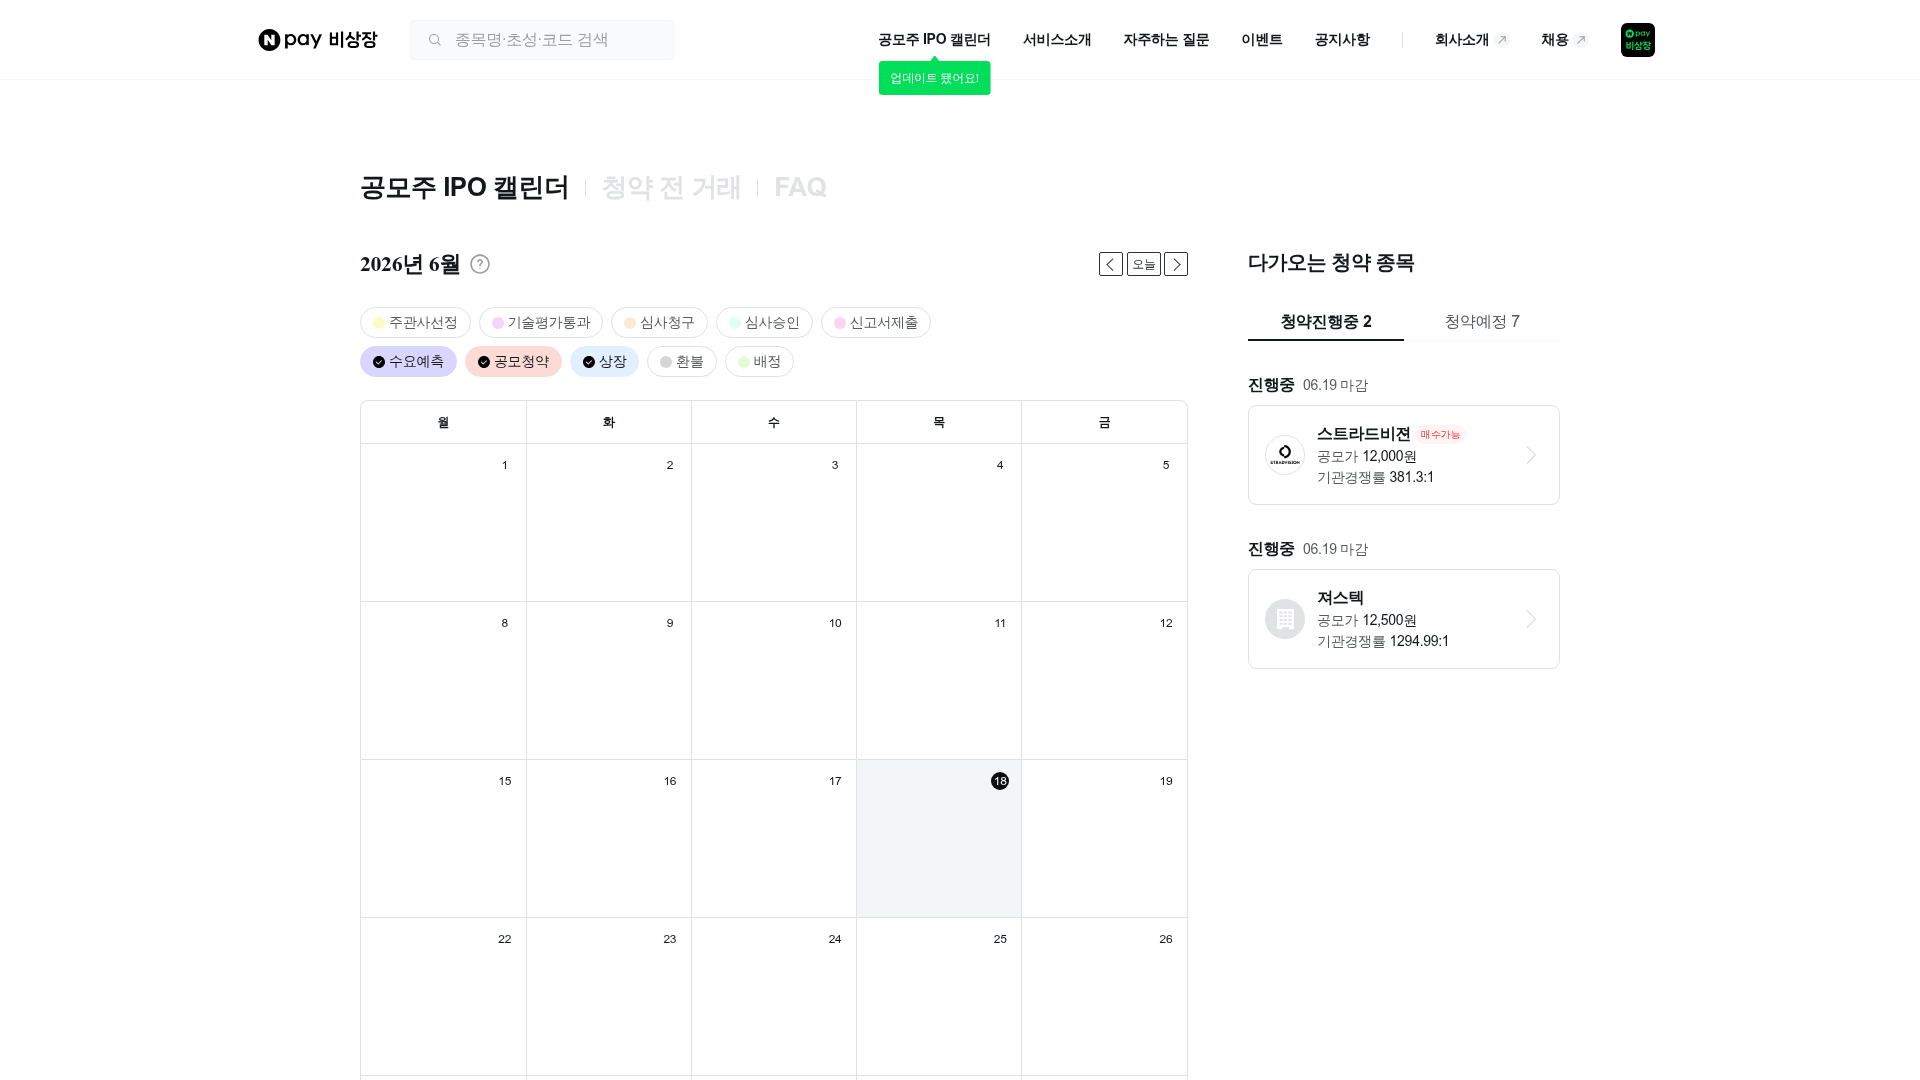
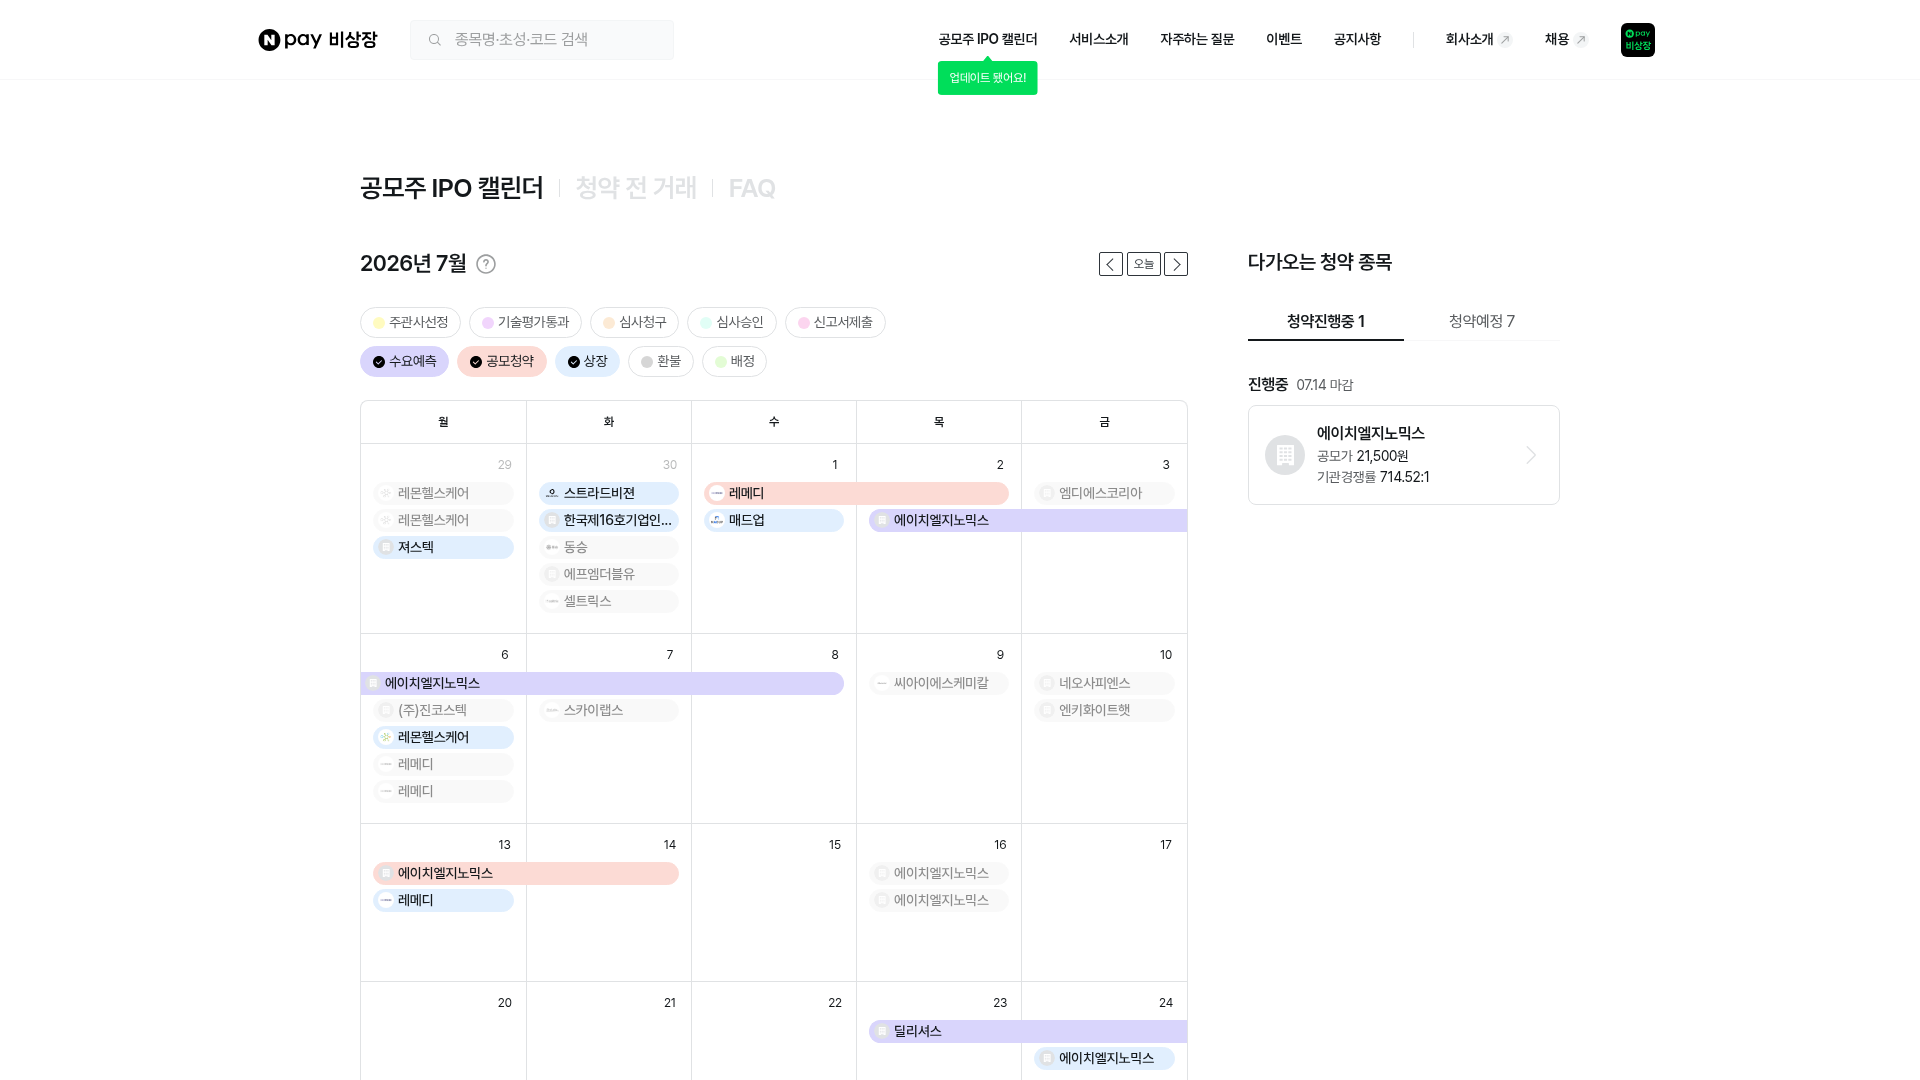
Align stock calendar events with Naver's IPO data for accuracy
Add missing IPO data and enhance event calculation for subscription and refund dates in the stock calendar.

Replit-Commit-Author: Agent
Replit-Commit-Session-Id: 81230c06-f0d5-4885-90f2-43c327f1e251
Replit-Commit-Checkpoint-Type: full_checkpoint
Replit-Commit-Event-Id: 9e053438-d2d0-4ad3-89b0-c8e92a6ca6a0
Replit-Commit-Screenshot-Url: https://storage.googleapis.com/screenshot-production-us-central1/2b618f9b-e709-4483-9e44-8e12e040cfd4/81230c06-f0d5-4885-90f2-43c327f1e251/PxUFpNK
Replit-Helium-Checkpoint-Created: true

diff --git a/client/src/pages/ipo-calendar.tsx b/client/src/pages/ipo-calendar.tsx
@@ -441,6 +441,24 @@ function buildIpo38CalEvents(ipo38: Ipo38Item[]): CalEvent[] {
         logoUrl: null, iconType: "square", isBar: true,
       });
     }
+    // 배정 (+1 영업일), 환불 (+2 영업일) — 청약종료일이 있을 때만
+    if (item.subscriptionEndDate) {
+      const allotDate = addBusinessDays(item.subscriptionEndDate, 1);
+      const refundDate = addBusinessDays(item.subscriptionEndDate, 2);
+      events.push({
+        name, start: allotDate, end: allotDate,
+        color: "#33691e", bgColor: "#F1F8E9", status: "배정",
+        priceRange: price, competition: compStr,
+        logoUrl: null, iconType: "snowflake", isBar: false,
+      });
+      events.push({
+        name, start: refundDate, end: refundDate,
+        color: "#b7601e", bgColor: "#FFF1E0", status: "환불",
+        priceRange: price, competition: compStr,
+        logoUrl: null, iconType: "dash", isBar: false,
+      });
+    }
+
     if (item.listingDate) {
       const d = parseLocalDate(item.listingDate);
       if (!isNaN(d.getTime())) {
@@ -650,7 +668,41 @@ function CalendarSection() {
 
   const naverData = ipoApiData?.naverData;
   const richIpoList: RichIpoItem[] = ipoApiData?.richIpoList || [];
-  const ipo38: Ipo38Item[] = ipoApiData?.ipo38 || [];
+  const ipo38Raw: Ipo38Item[] = ipoApiData?.ipo38 || [];
+
+  // 네이버 캘린더 기준 누락 종목 보완 데이터
+  const STATIC_IPO_SUPPLEMENTS: Ipo38Item[] = [
+    // 기존 ipo38에 있지만 listingDate 없는 종목에 상장일 추가
+    { stockName: "져스텍",      subscriptionStartDate: "2026-06-18", subscriptionEndDate: "2026-06-19", listingDate: "2026-06-29", type: "subscription" },
+    { stockName: "스트라드비젼", subscriptionStartDate: "2026-06-18", subscriptionEndDate: "2026-06-19", listingDate: "2026-06-30", type: "subscription" },
+    { stockName: "한국스팩16호", subscriptionStartDate: "2026-06-22", subscriptionEndDate: "2026-06-23", listingDate: "2026-06-30", type: "subscription" },
+    { stockName: "매드업",      subscriptionStartDate: "2026-06-23", subscriptionEndDate: "2026-06-24", listingDate: "2026-07-01", type: "subscription" },
+    { stockName: "레몬헬스케어", subscriptionStartDate: "2026-06-24", subscriptionEndDate: "2026-06-25", listingDate: "2026-07-06", type: "subscription" },
+    // ipo38에 없는 누락 상장 종목
+    { stockName: "에프엠더불유",   subscriptionStartDate: "", subscriptionEndDate: "", listingDate: "2026-06-30", type: "listing" },
+    { stockName: "엠디에스코리아", subscriptionStartDate: "", subscriptionEndDate: "", listingDate: "2026-07-02", type: "listing" },
+    { stockName: "(주)진코스텍",   subscriptionStartDate: "", subscriptionEndDate: "", listingDate: "2026-07-06", type: "listing" },
+    { stockName: "스카이펌스",    subscriptionStartDate: "", subscriptionEndDate: "", listingDate: "2026-07-07", type: "listing" },
+    { stockName: "네오사파이언스", subscriptionStartDate: "", subscriptionEndDate: "", listingDate: "2026-07-09", type: "listing" },
+    { stockName: "엔키화이토햇",  subscriptionStartDate: "", subscriptionEndDate: "", listingDate: "2026-07-09", type: "listing" },
+  ];
+
+  // supplement + 서버 ipo38 병합: 서버 데이터 우선, listingDate는 서버에 없으면 supplement 사용
+  const ipo38 = useMemo(() => {
+    const suppMap = new Map<string, Ipo38Item>(STATIC_IPO_SUPPLEMENTS.map(i => [i.stockName, { ...i }]));
+    const merged: Ipo38Item[] = [];
+    for (const item of ipo38Raw) {
+      const supp = suppMap.get(item.stockName);
+      if (supp) {
+        merged.push({ ...supp, ...item, listingDate: item.listingDate || supp.listingDate });
+        suppMap.delete(item.stockName);
+      } else {
+        merged.push(item);
+      }
+    }
+    for (const item of suppMap.values()) merged.push(item);
+    return merged;
+  }, [ipo38Raw]);
 
   const events = useMemo(() => {
     const norm = (s: string) => s.replace(/\s/g, "").replace(/져/g, "저").replace(/쟤/g, "재").toLowerCase();
